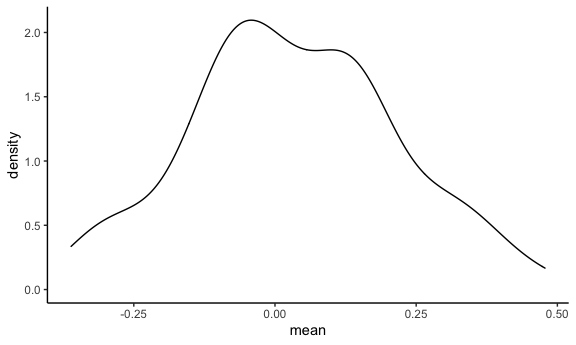
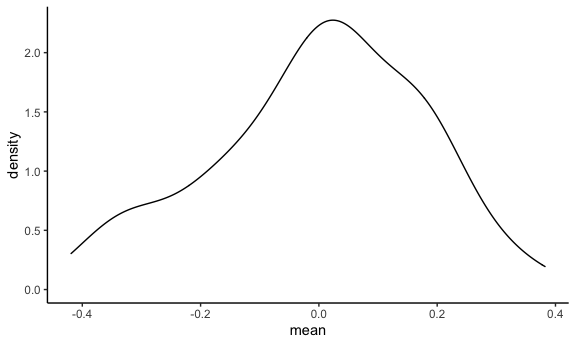
Did some simulations.

diff --git a/simualtion.md b/simualtion.md
@@ -28,9 +28,9 @@ sim_mean_sd(300)
 ```
 
     ## # A tibble: 1 × 2
-    ##      mean    sd
-    ##     <dbl> <dbl>
-    ## 1 -0.0321 0.975
+    ##     mean    sd
+    ##    <dbl> <dbl>
+    ## 1 0.0336 0.964
 
 ## Let’s simulate a lot.
 
@@ -49,18 +49,18 @@ bind_rows(output)
 ```
 
     ## # A tibble: 10 × 2
-    ##       mean    sd
-    ##      <dbl> <dbl>
-    ##  1  0.0365 1.01 
-    ##  2  0.0309 0.952
-    ##  3  0.0666 1.10 
-    ##  4 -0.131  0.997
-    ##  5  0.148  1.02 
-    ##  6  0.0334 0.778
-    ##  7 -0.0407 0.990
-    ##  8  0.103  0.999
-    ##  9 -0.0882 0.992
-    ## 10  0.0561 1.02
+    ##         mean    sd
+    ##        <dbl> <dbl>
+    ##  1  0.0516   0.992
+    ##  2 -0.0391   1.17 
+    ##  3 -0.0445   0.966
+    ##  4 -0.200    1.08 
+    ##  5  0.000255 1.10 
+    ##  6  0.0101   1.09 
+    ##  7  0.00407  1.05 
+    ##  8 -0.0103   1.03 
+    ##  9 -0.152    0.986
+    ## 10  0.243    1.08
 
 Let’s use a loop function.
 
@@ -90,7 +90,7 @@ sim_results %>%
     ## # A tibble: 1 × 2
     ##   avg_samp_mean sd_samp_mean
     ##           <dbl>        <dbl>
-    ## 1        0.0329        0.182
+    ## 1      -0.00102        0.177
 
 ``` r
 sim_results %>% 
@@ -98,3 +98,53 @@ sim_results %>%
 ```
 
 <img src="simualtion_files/figure-gfm/unnamed-chunk-5-2.png" width="90%" />
+
+## rerun
+
+``` r
+n_list = 
+  list(
+    "n = 30" = 30,
+    "n = 60" = 60,
+    "n = 120" = 120,
+    "n = 240" = 240
+  )
+
+output = vector('list', 4)
+
+output[[1]] = rerun(100, sim_mean_sd(sample_size = n_list[[1]])) %>%  bind_rows
+
+for (i in 1:4) {
+  
+  output[[i]] = 
+    rerun(100, sim_mean_sd(sample_size = n_list[[1]])) %>% 
+    bind_rows()
+}
+```
+
+``` r
+sim_results =
+  tibble(
+    sample_size = c(30, 60, 120, 240)
+  ) %>% 
+    mutate(
+      output_lists = map(.x = sample_size, ~ rerun(10, sim_mean_sd(.x))),
+      estimate_df = map(output_lists, bind_rows)
+    ) %>% 
+    select(-output_lists) %>% 
+    unnest(estimate_df)
+```
+
+Let’s do some data frame things.
+
+``` r
+sim_results %>% 
+  mutate(
+    sample_size = str_c('n = ', sample_size),
+    sample_size = fct_inorder(sample_size)
+  ) %>% 
+  ggplot(aes(x = sample_size, y = mean)) +
+  geom_boxplot()
+```
+
+<img src="simualtion_files/figure-gfm/unnamed-chunk-8-1.png" width="90%" />
